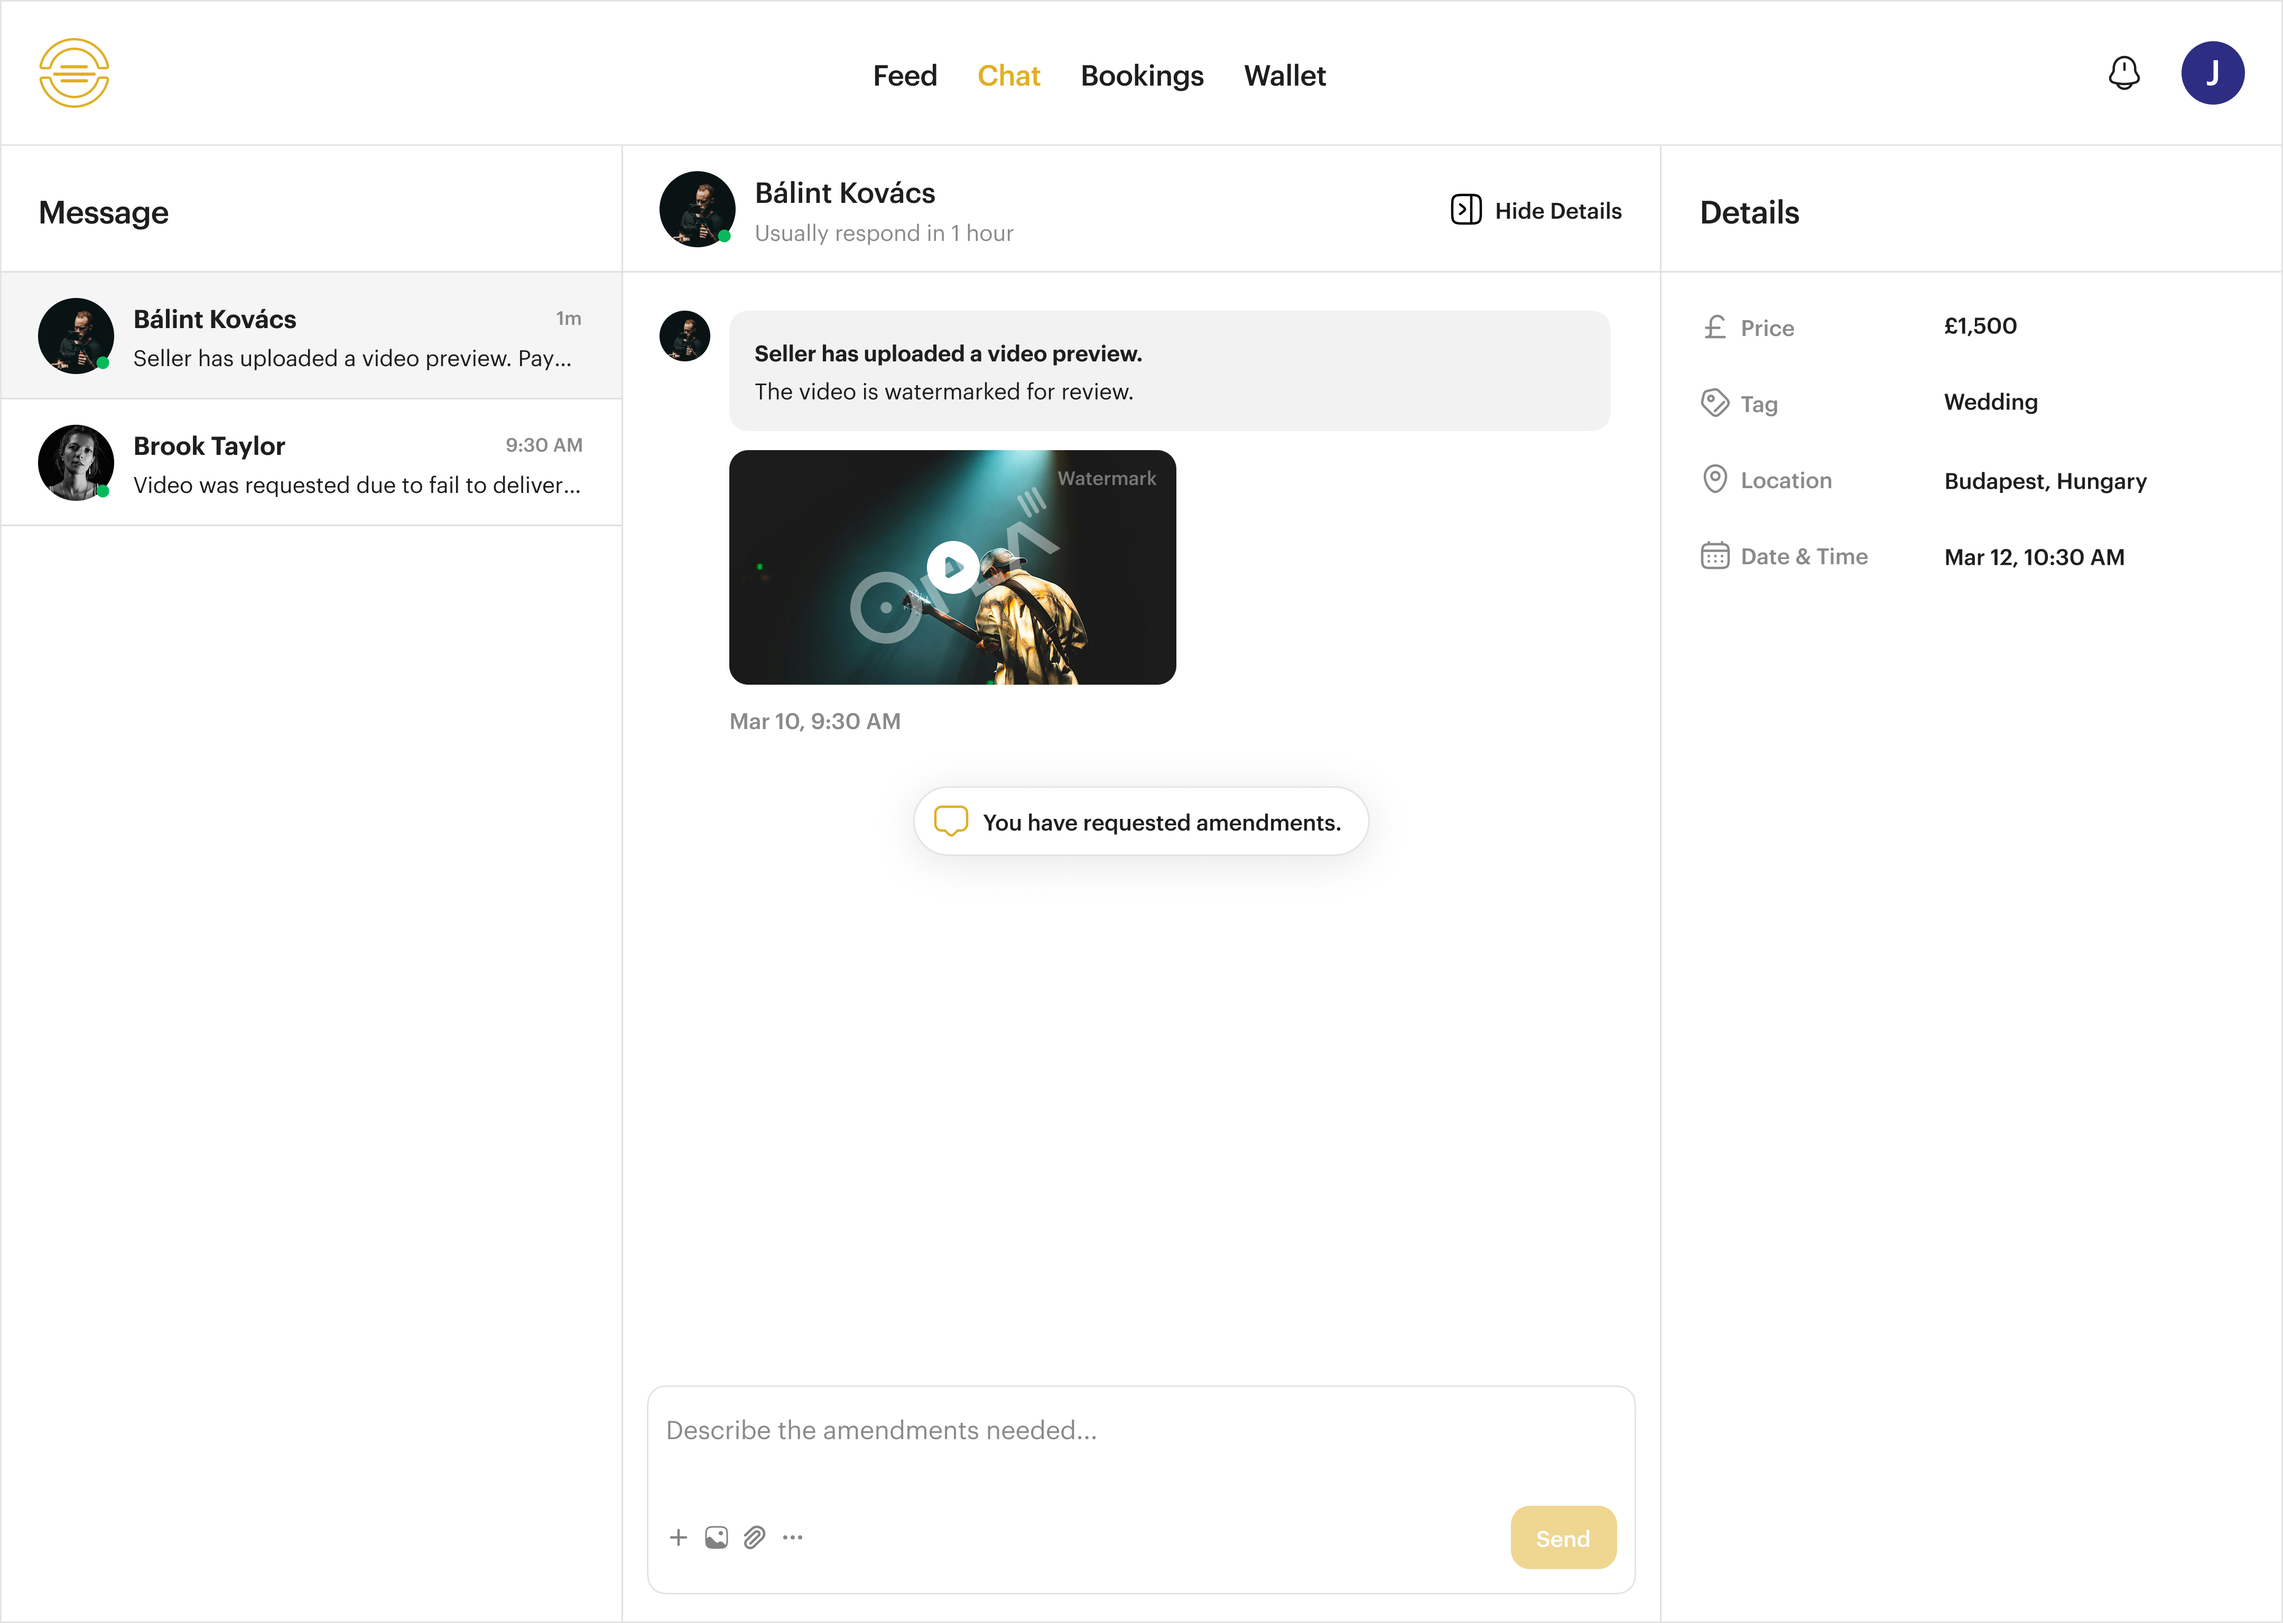
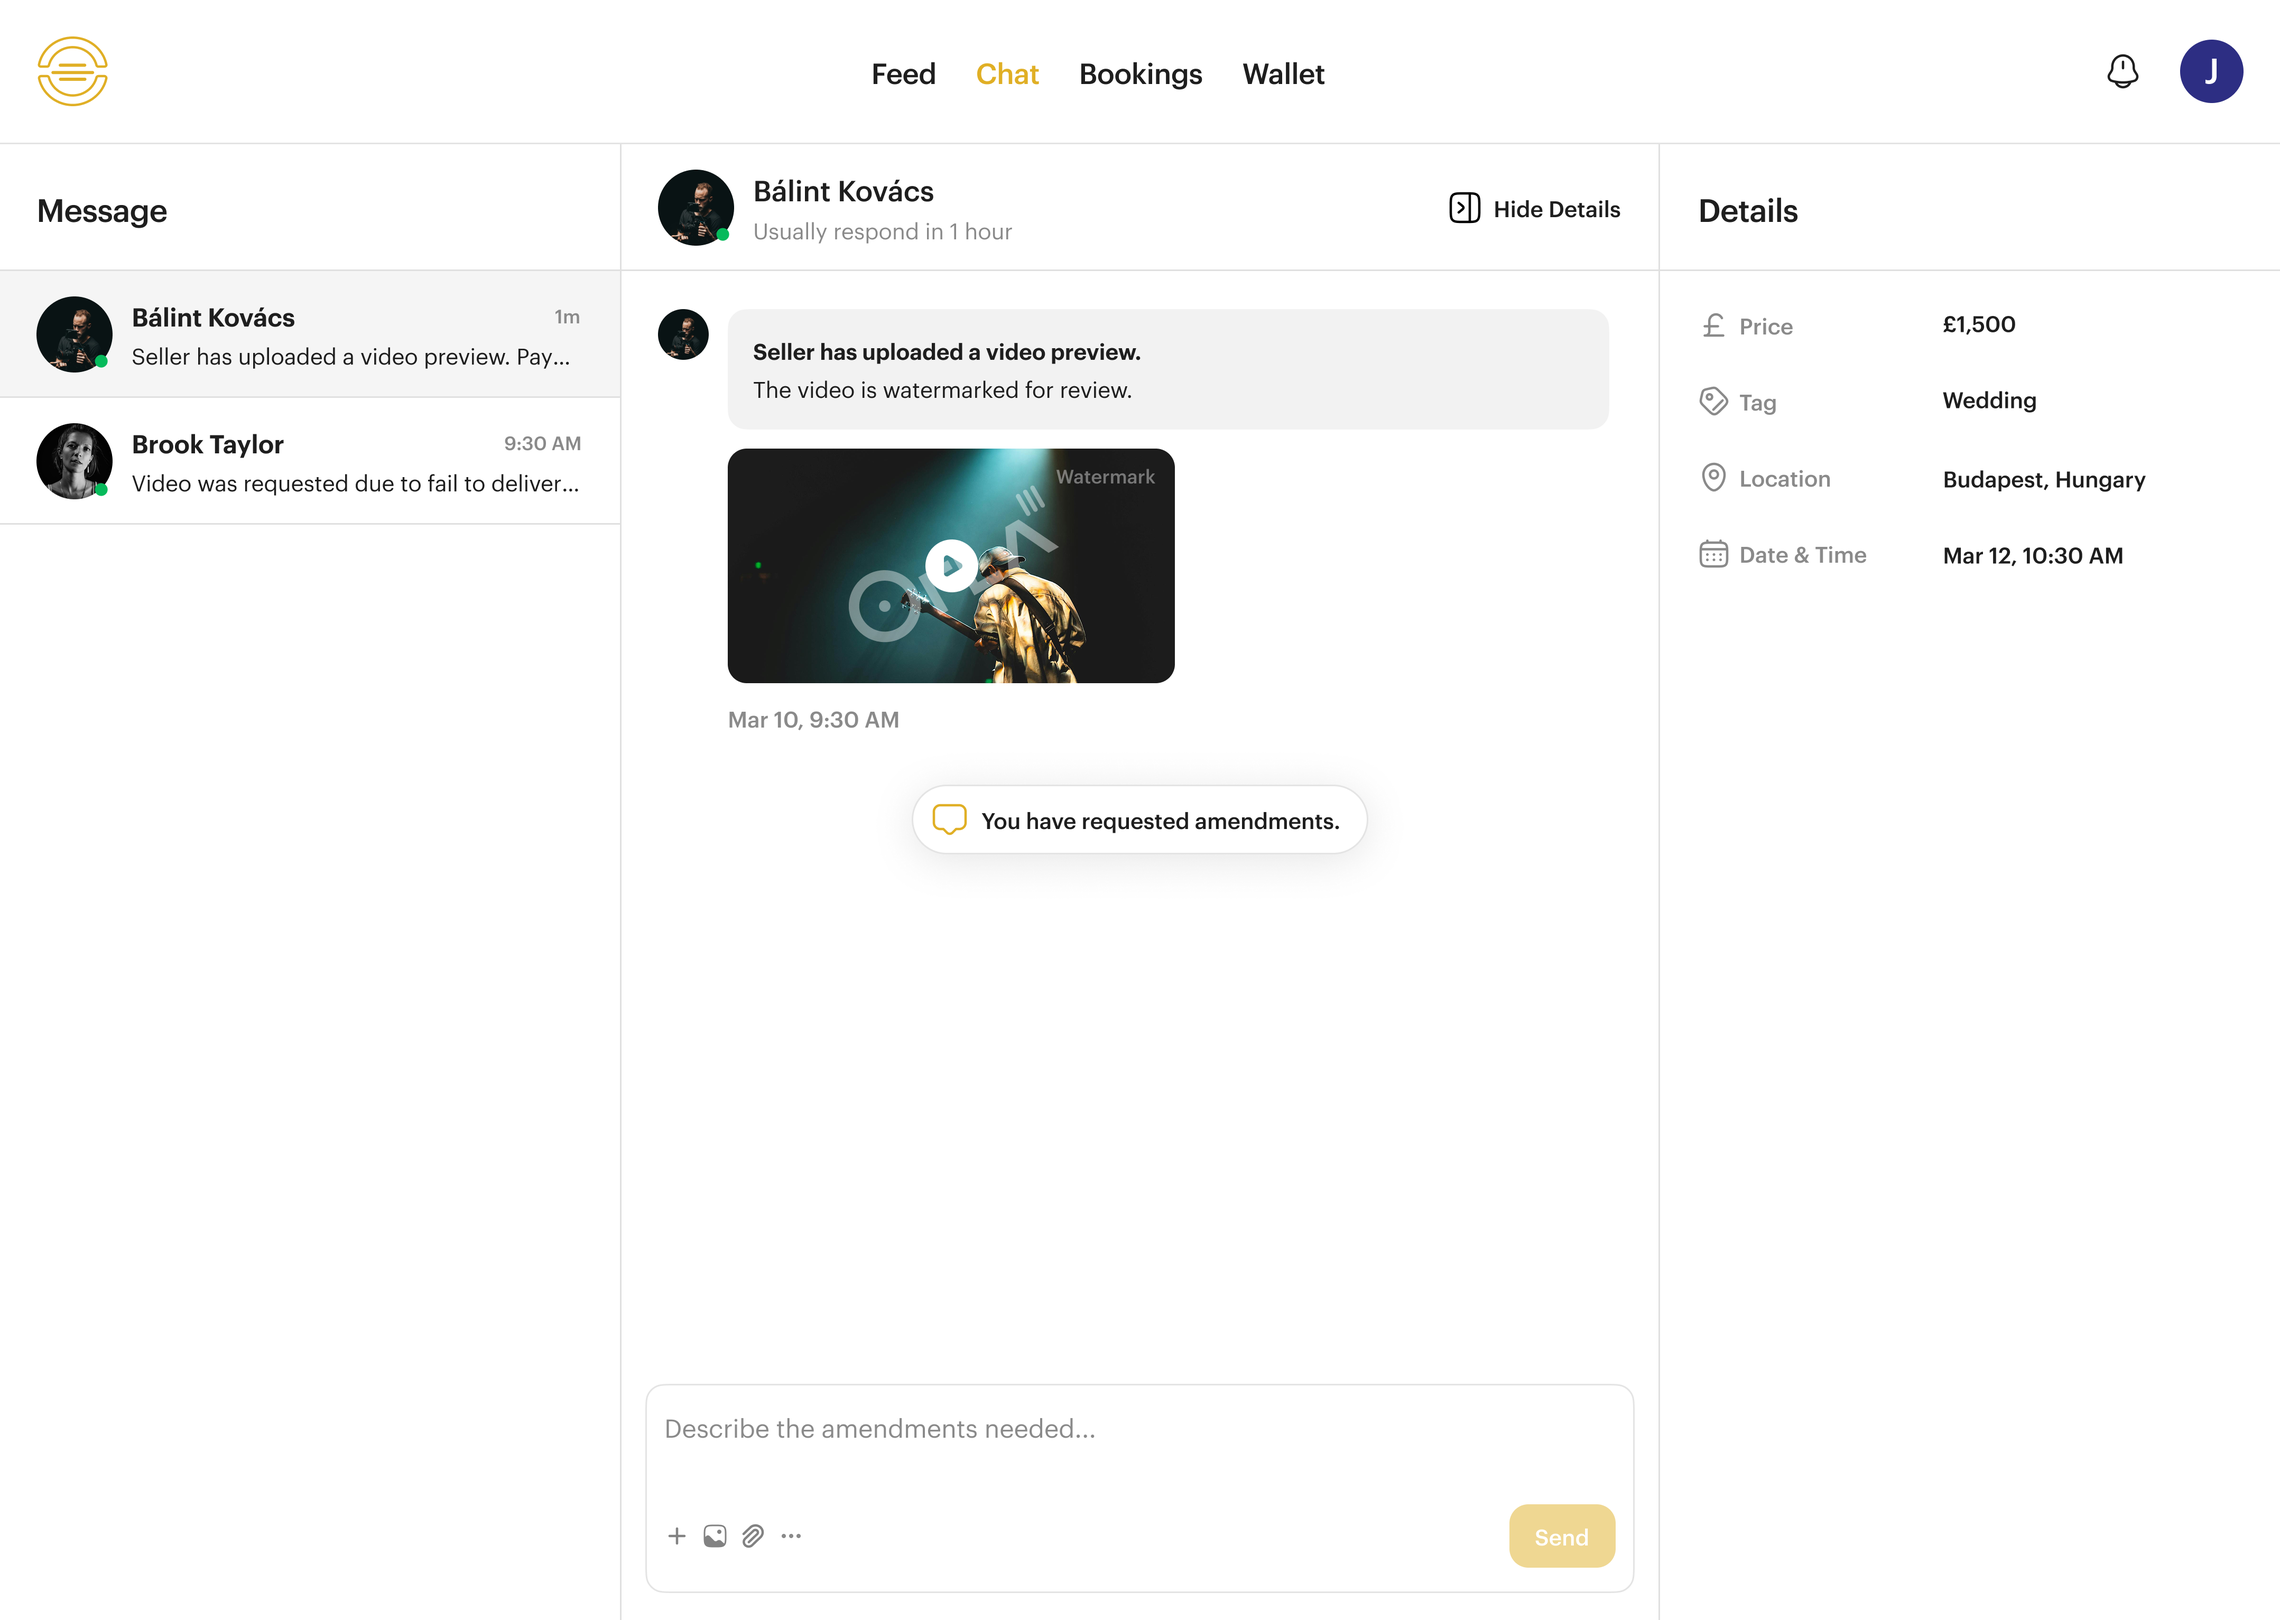
Crop baked-in #E4E4E4 border out of Orla3 amendment-request.png
The amendment-request screenshot shipped with a 3px #E4E4E4 border drawn
into the PNG itself (its sibling chat screens are clean white to the edge),
so it read as a bordered card that bordered:false could not remove. Crop
the 3px ring off all four sides (4320x3072 -> 4314x3066) and update the
visual ratio to match, so it sits in the grey mat like the others.

diff --git a/src/lib/case-studies/orla3.ts b/src/lib/case-studies/orla3.ts
@@ -33,7 +33,7 @@ export const orla3 = {
     { kind: "web", image: { src: "/images/case-studies/orla3/question1.png", alt: "Orla3, an open question about the video brief" }, ratio: "4320 / 3072", bordered: false, caption: "The brief begins as a plain question, not a form." },
     { kind: "web", image: { src: "/images/case-studies/orla3/payment.png", alt: "Orla3, confirm and pay with escrow and a full price breakdown" }, ratio: "4320 / 3072", bordered: false, caption: "The full financial commitment is visible before the buyer pays." },
     { kind: "web", image: { src: "/images/case-studies/orla3/buyer-work-review.png", alt: "Orla3, reviewing the delivered work with accept, amend, or decline" }, ratio: "4320 / 3072", bordered: false, caption: "One screen resolves the most important moment between buyer and seller." },
-    { kind: "web", image: { src: "/images/case-studies/orla3/amendment-request.png", alt: "Orla3, describing the amendments needed on delivered work" }, ratio: "4320 / 3072", bordered: false, caption: "Marketplace rules surface at the moment they affect the transaction." },
+    { kind: "web", image: { src: "/images/case-studies/orla3/amendment-request.png", alt: "Orla3, describing the amendments needed on delivered work" }, ratio: "4314 / 3066", bordered: false, caption: "Marketplace rules surface at the moment they affect the transaction." },
     { kind: "web", image: { src: "/images/case-studies/orla3/video-declined.png", alt: "Orla3, a declined video preview with the payment held" }, ratio: "4320 / 3072", bordered: false, caption: "A decline keeps the payment in escrow, not with the seller." },
   ] as VisualSection[],
 
